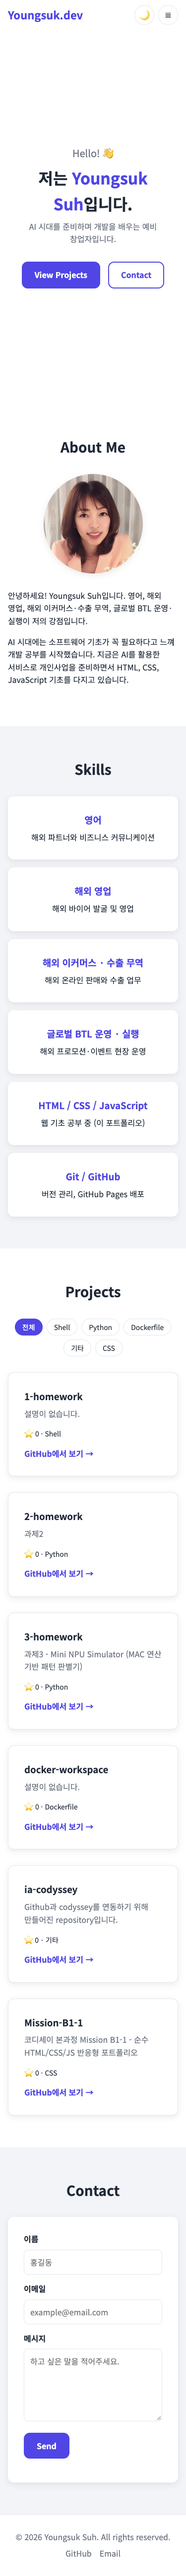
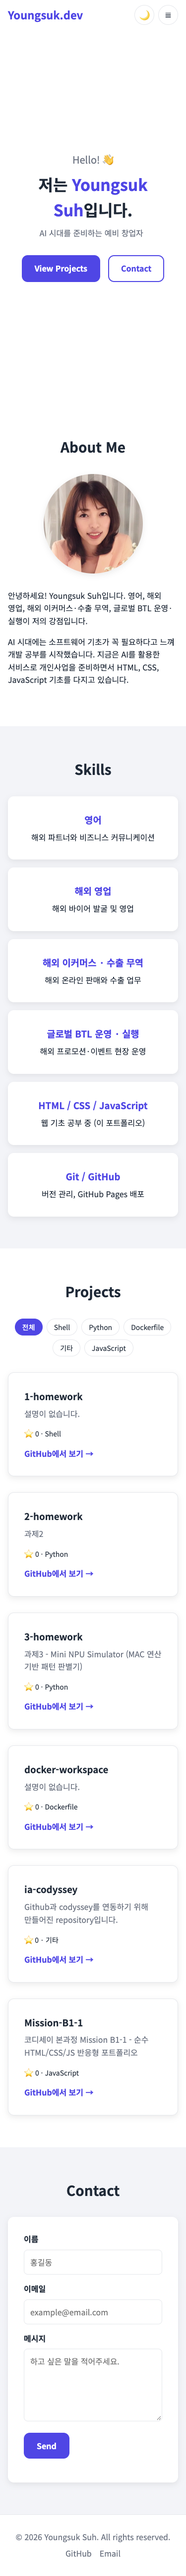
타이핑 효과: 문구 2개를 썼다 지웠다 무한 반복하도록 변경
- setInterval → setTimeout (쓰기 90ms · 지우기 40ms · 멈춤 1.5초로 단계별 조절)
- TYPING_TEXTS 배열에 문구를 넣어 두고 순서대로 반복
- README 보너스 표·기준값, 스크린샷 갱신

Changed region(s): [[0.1173, 0.0311, 0.8213, 0.1243]]

diff --git a/js/main.js b/js/main.js
@@ -409,24 +409,60 @@ contactForm.addEventListener('submit', (event) => {
 
 // ---------------------------------------------------------
 // 8. Hero 타이핑 효과 (보너스)
-// 📌 보너스 : Hero 문장을 타자기처럼 한 글자씩 보여주기
+// 📌 보너스 : 문구 여러 개를 썼다가 지웠다가 반복해서 보여주기
 // 📝 평가 : 부록 D 보너스 과제
 // ---------------------------------------------------------
 const typingText = document.querySelector('#typing-text');
-const TYPING_SPEED = 80; // 글자 하나당 0.08초
 
-// HTML에 적어 둔 문장을 먼저 읽어 두고, 화면은 비운다
-const fullText = typingText.textContent;
-let typedLength = 0;
-typingText.textContent = '';
+// 돌아가며 보여줄 문구들 (여기만 고치면 문구가 바뀐다)
+const TYPING_TEXTS = [
+  'AI 시대를 준비하는 예비 창업자',
+  '지금은 HTML · CSS · JavaScript를 배우는 중',
+];
 
-// 0.08초마다 한 글자씩 늘려서 보여준다
-const typingTimer = setInterval(() => {
-  typedLength = typedLength + 1;
-  typingText.textContent = fullText.slice(0, typedLength); // 앞에서 n글자 자르기
+const TYPING_SPEED = 90;    // 한 글자 쓰는 속도 (0.09초)
+const DELETING_SPEED = 40;  // 한 글자 지우는 속도 (지울 때는 더 빠르게)
+const HOLD_TIME = 1500;     // 다 쓰고 잠시 멈춰 있는 시간 (1.5초)
 
-  if (typedLength === fullText.length) {
-    clearInterval(typingTimer);            // 다 쓰면 반복 멈추기
-    typingText.classList.remove('typing'); // 깜빡이는 커서 숨기기
+// [상태] 지금 몇 번째 문구를, 몇 글자까지, 쓰는 중인지 지우는 중인지
+let textIndex = 0;
+let charCount = 0;
+let isDeleting = false;
+
+const typeLoop = () => {
+  const fullText = TYPING_TEXTS[textIndex]; // 지금 보여줄 문구 하나
+
+  // 지우는 중이면 한 글자 줄이고, 아니면 한 글자 늘린다
+  if (isDeleting) {
+    charCount = charCount - 1;
+  } else {
+    charCount = charCount + 1;
   }
-}, TYPING_SPEED);
+
+  typingText.textContent = fullText.slice(0, charCount); // 앞에서 n글자만 보여주기
+
+  // 다음 글자까지 기다릴 시간
+  let delay = TYPING_SPEED;
+  if (isDeleting) {
+    delay = DELETING_SPEED;
+  }
+
+  if (isDeleting === false && charCount === fullText.length) {
+    // 다 썼으면 → 잠시 멈췄다가 지우기 시작
+    isDeleting = true;
+    delay = HOLD_TIME;
+  } else if (isDeleting === true && charCount === 0) {
+    // 다 지웠으면 → 다음 문구로 넘어간다
+    isDeleting = false;
+    textIndex = textIndex + 1;
+    if (textIndex === TYPING_TEXTS.length) {
+      textIndex = 0; // 마지막 문구까지 끝났으면 처음으로 돌아간다
+    }
+    delay = 400;
+  }
+
+  setTimeout(typeLoop, delay); // 정해진 시간 뒤에 이 함수를 다시 실행 (반복)
+};
+
+typingText.textContent = ''; // HTML에 적힌 문장을 지우고
+typeLoop();                  // 타이핑 시작

diff --git a/index.html b/index.html
@@ -66,7 +66,7 @@
         <p class="hero-hello">Hello! 👋</p>
         <h1 class="hero-title">저는 <span class="highlight">Youngsuk Suh</span>입니다.</h1>
         <!-- [보너스] 타이핑 효과: JS가 이 문장을 한 글자씩 다시 써 준다 -->
-        <p class="hero-text typing" id="typing-text">AI 시대를 준비하며 개발을 배우는 예비 창업자입니다.</p>
+        <p class="hero-text typing" id="typing-text">AI 시대를 준비하는 예비 창업자</p>
         <div class="hero-buttons">
           <a href="#projects" class="btn">View Projects</a>
           <a href="#contact" class="btn btn-outline">Contact</a>
